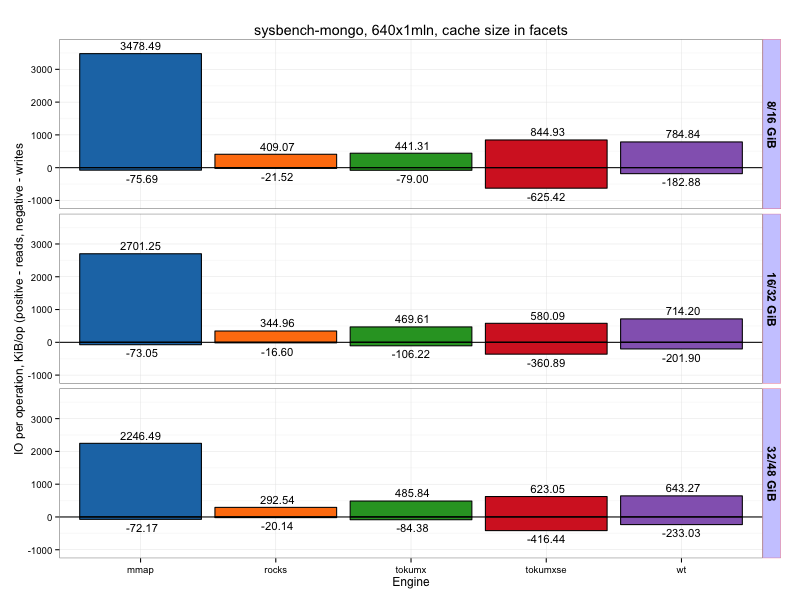
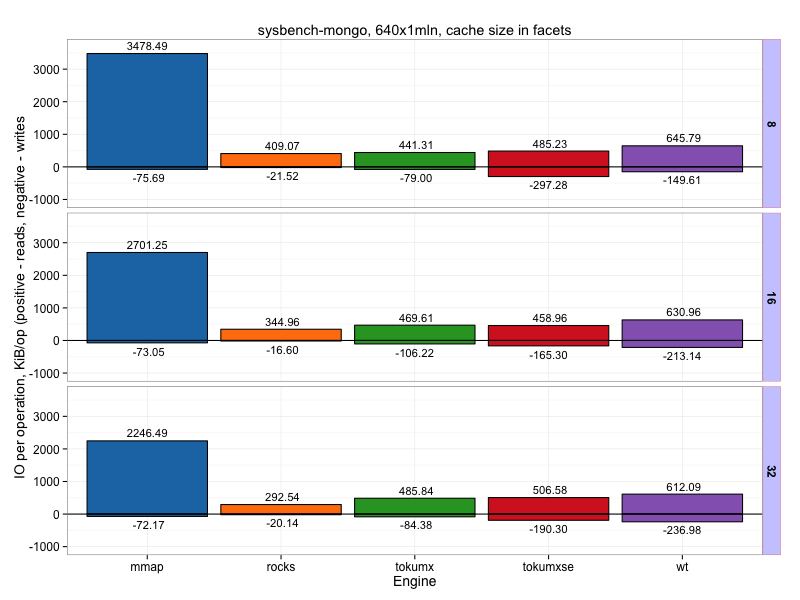
fix io results based on checkpoint

Changed region(s): [[0.0, 0.09, 0.9688, 0.99], [0.3125, 0.03, 0.7188, 0.06], [0.1562, 0.06, 0.2188, 0.09]]

diff --git a/mongodb-sysbench-hppro2.rst b/mongodb-sysbench-hppro2.rst
@@ -68,7 +68,7 @@ WiredTiger checkpoint period
 
 On previous chart we see a lot of variance in wiredTiger results. My guess was it is related to checkpointing activity,
 which by default happens every 60. It took some research to find a way to change a checkpoint period for wiredTiger,
-apparenly the variable ``--syncdelay`` is responsible for that.
+apparently the variable ``--syncdelay`` is responsible for that.
 So there is results with longer (900sec) checkpoint interval for wiredTiger
 
 .. image:: img/wt-ckp900.png
@@ -83,8 +83,8 @@ size   mmap wiredTiger wiredTiger (checkpoint 900sec)
 32/48  35   67         72
 =====  ==== ========== ==============================
 
-So we can make a conclusion that increasing checkpoint interval makes some improvement in the variance, and the overall result is better (though dips in thoughput is worse during checkpoint activity).
-I will use the last result (wich checkpoint period 900) in the following tables.
+So we can make a conclusion that increasing checkpoint interval makes some improvement in the variance, and the overall result is better (though dips in throughput is worse during checkpoint activity).
+I will use the last result (with checkpoint period 900) in the following tables.
 
 RocksDB vs WiredTiger
 =====================

diff --git a/Benchmarks.rst b/Benchmarks.rst
@@ -1,1 +1,4 @@
+============
 Benchmarks
+============
+
